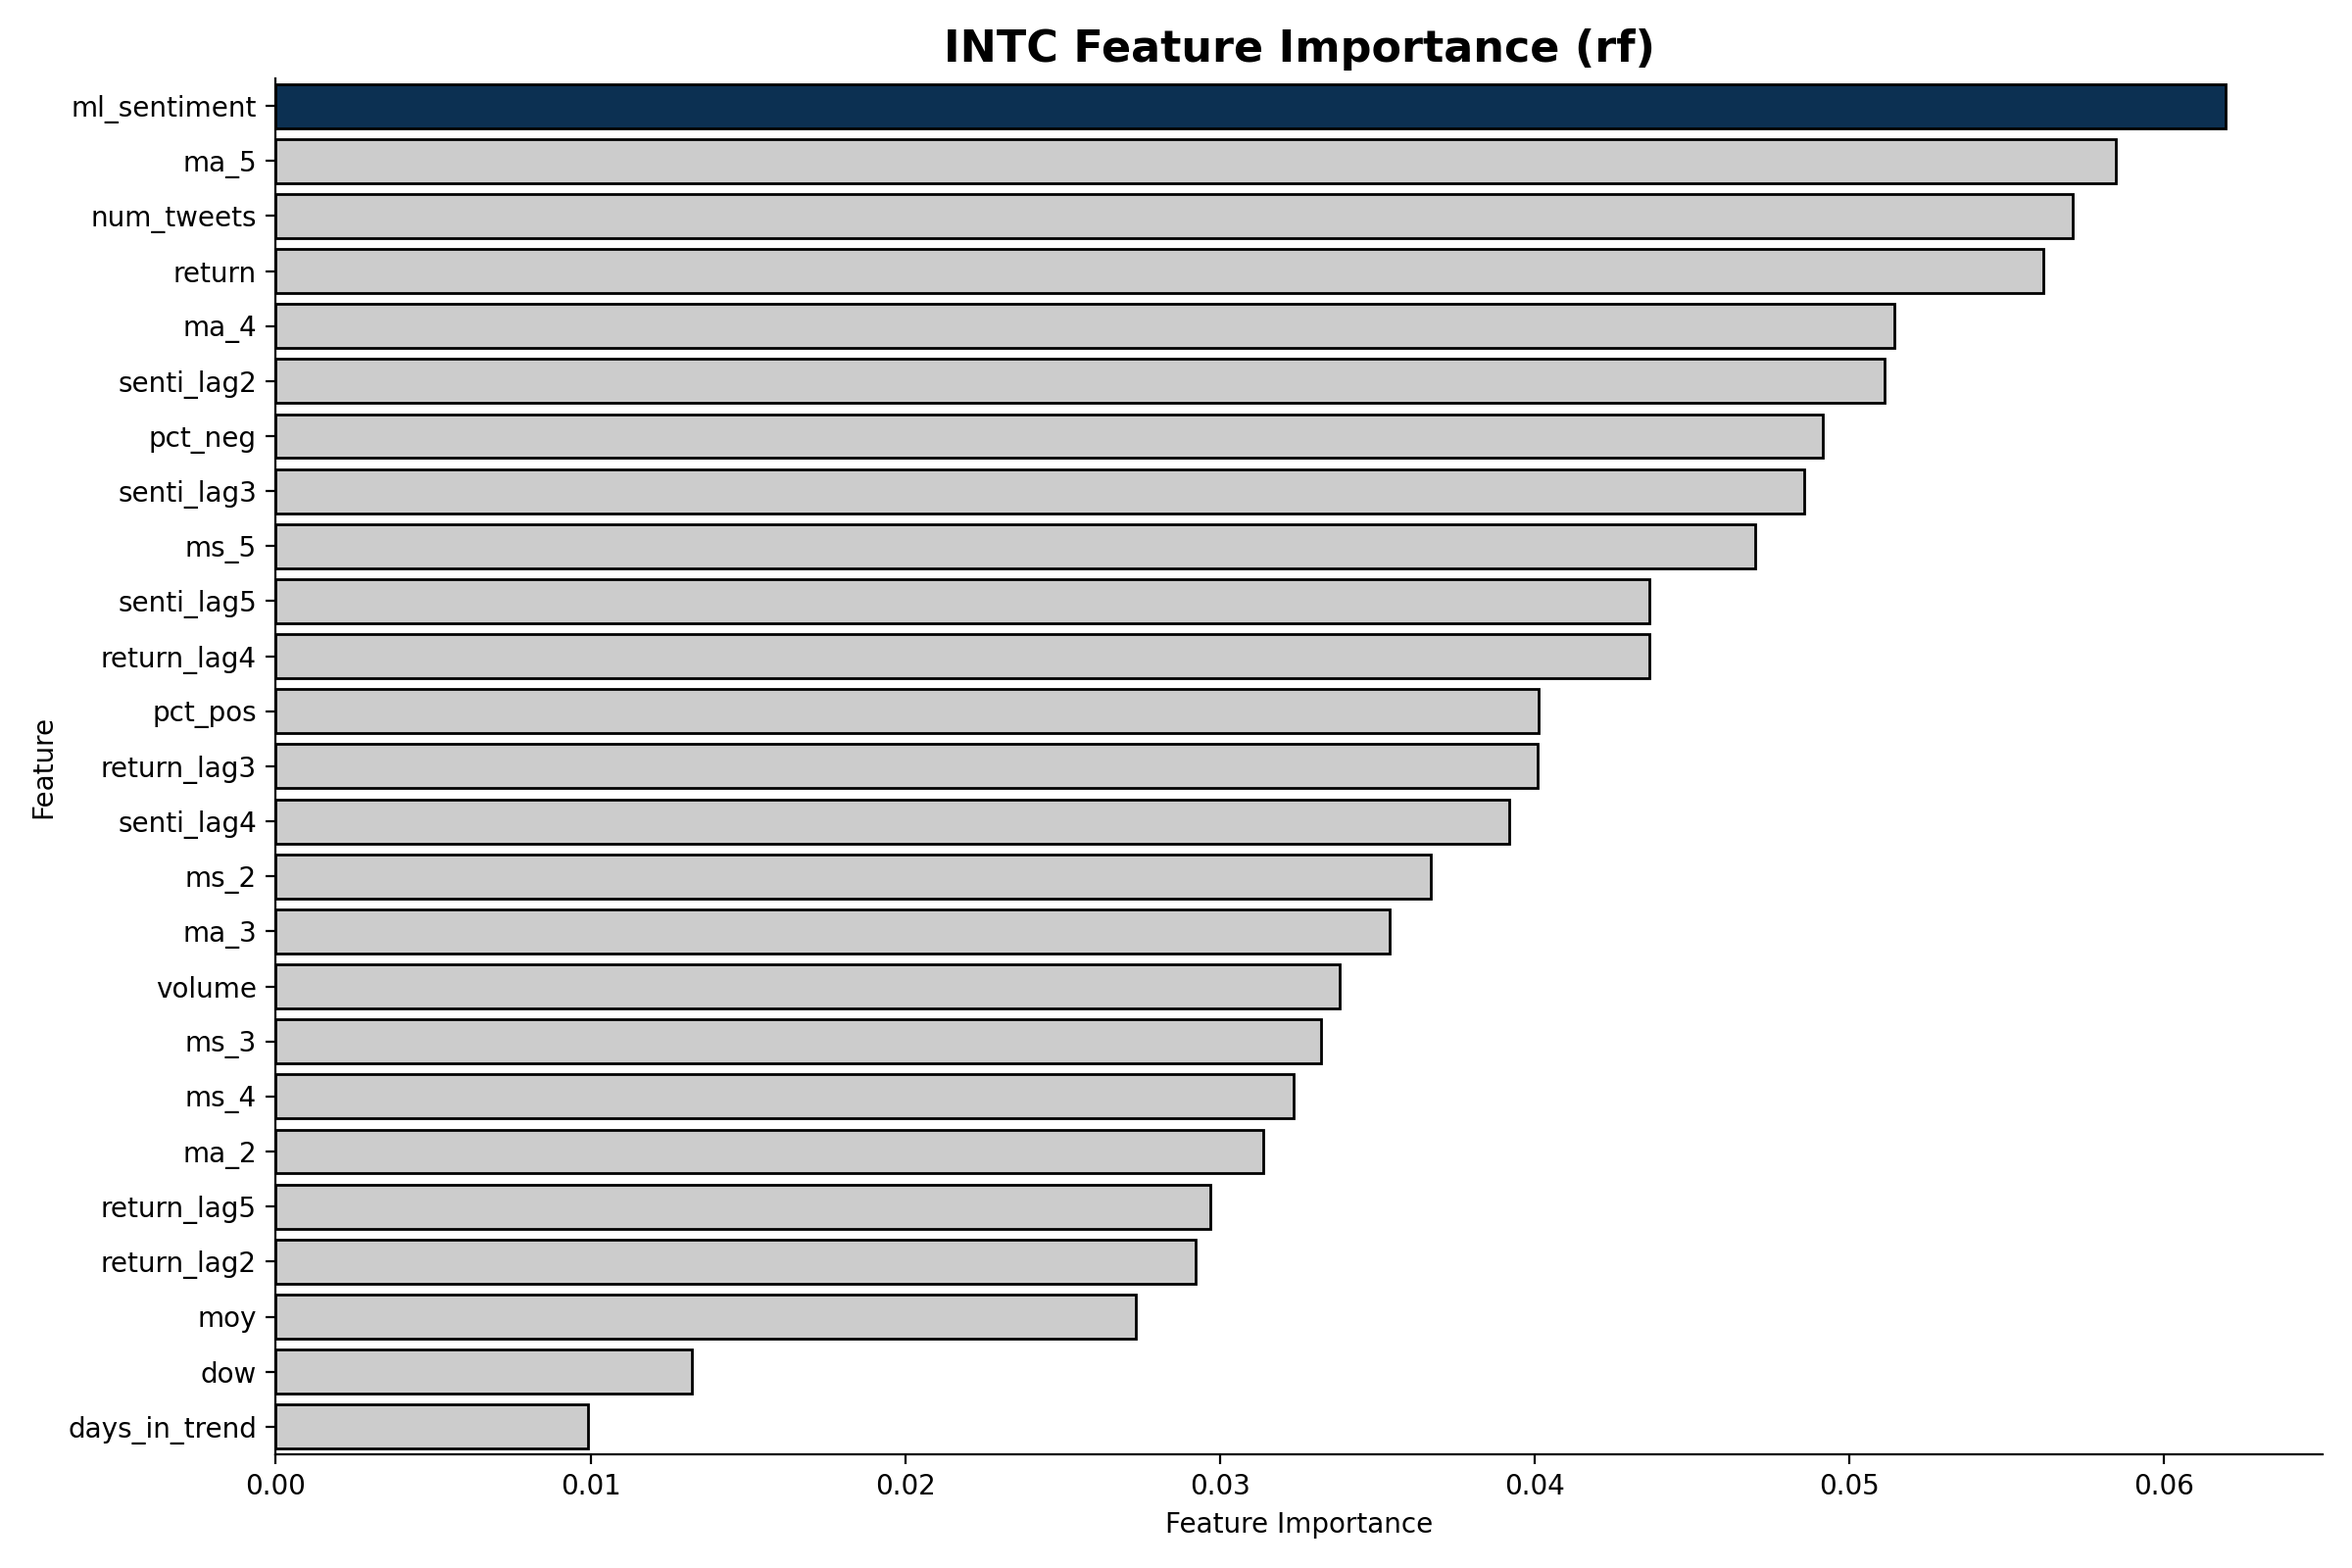
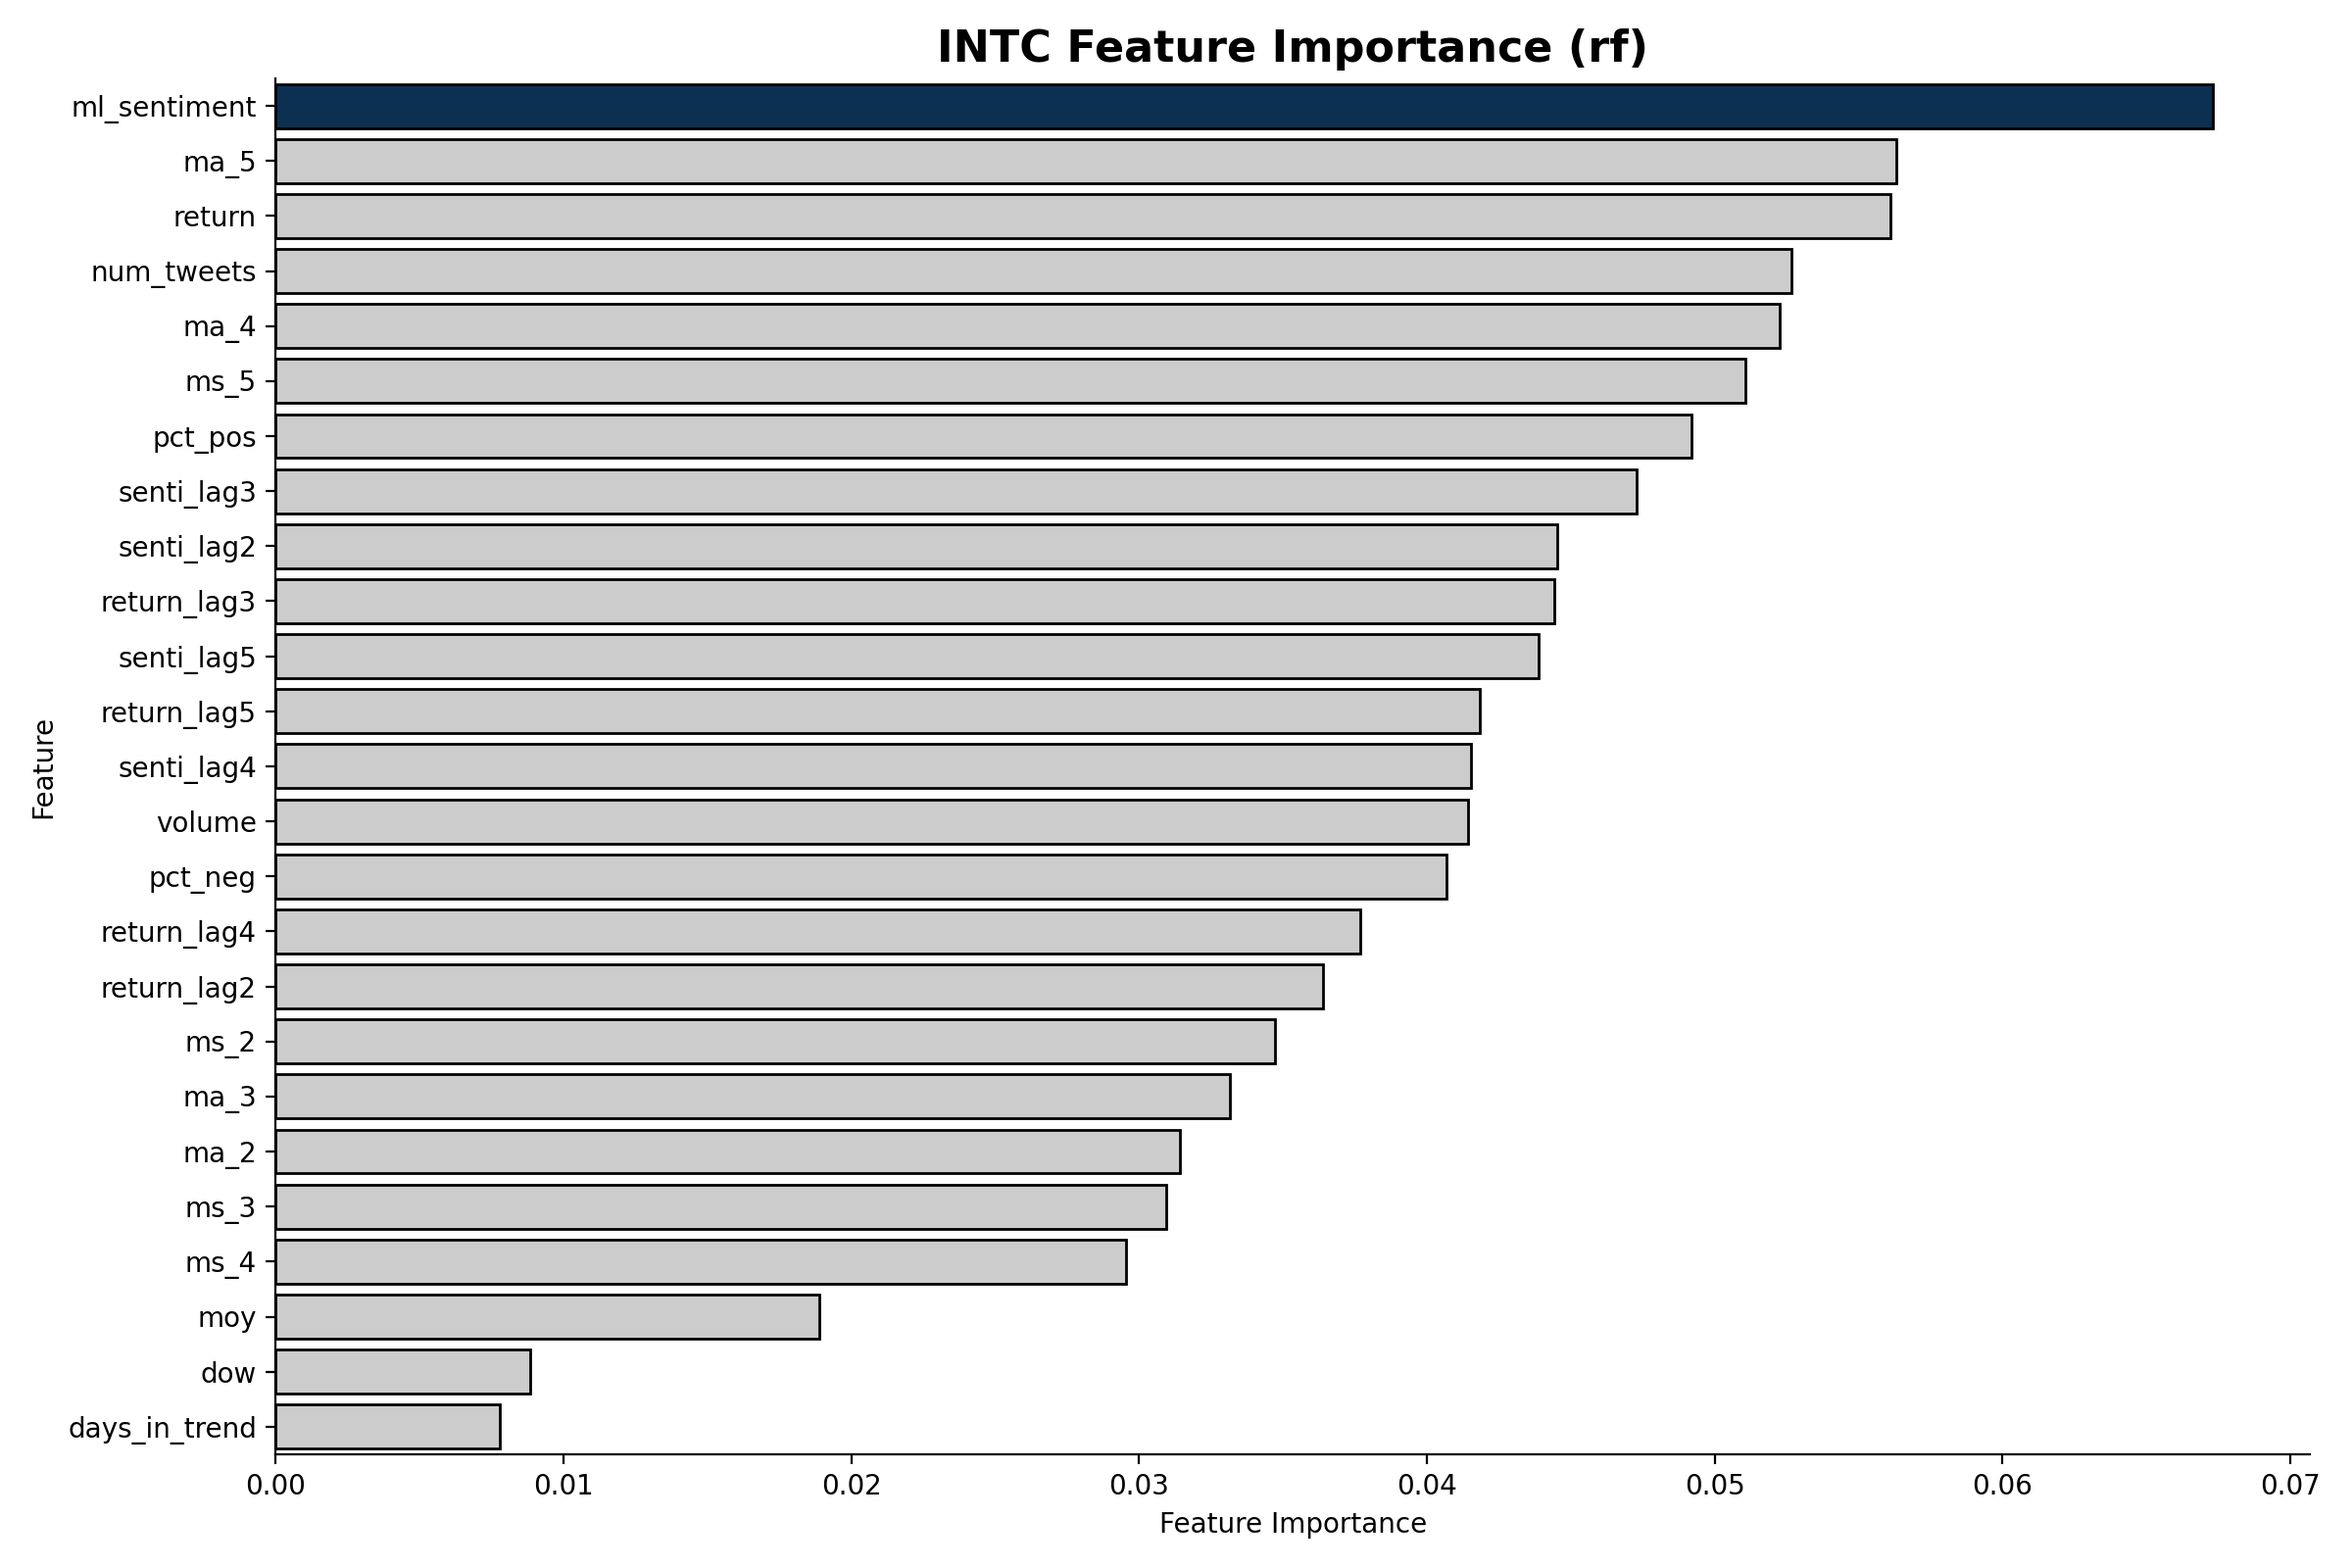
logs

diff --git a/10_code/100_GBT_model.py b/10_code/100_GBT_model.py
@@ -21,7 +21,7 @@ tickers = ["TSLA", "AAPL", "AMZN", "FB", "MSFT", "TWTR", "AMD", "NFLX", "NVDA", 
 # %%
 ticker = "INTC"
 
-SENTI = 'ml_sentiment'
+SENTI = 'vader'
 # SENTI = 'vader'
 
 # close_price = pd.read_parquet(root_path + "20_outputs/financial_ts/INTC_stock.parquet")['Close'].ffill()
